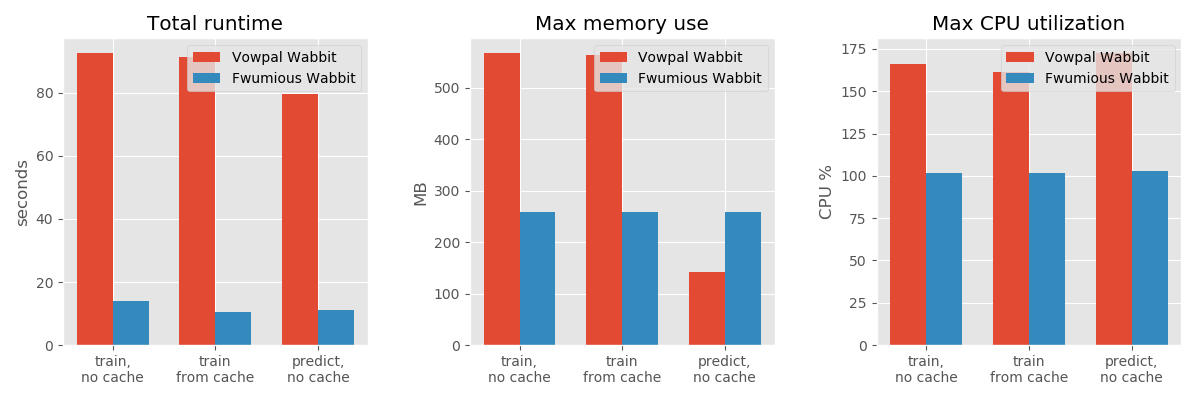
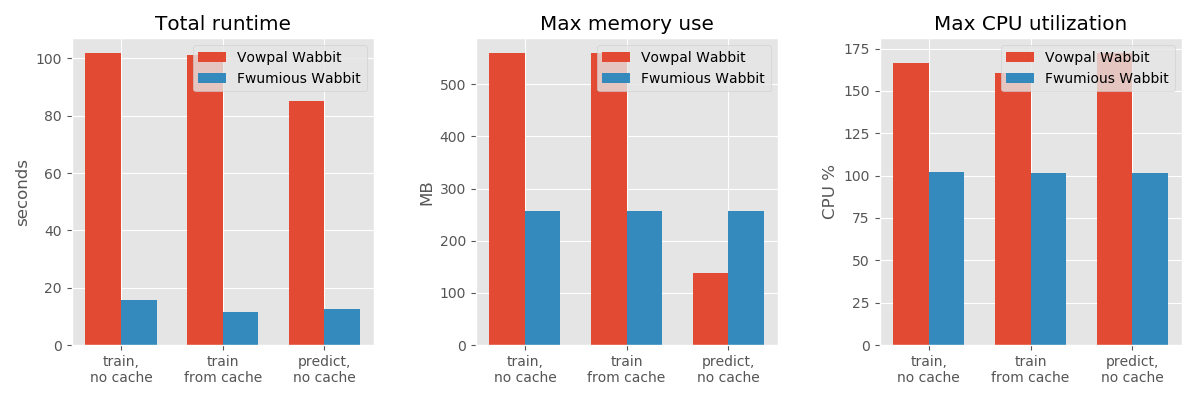
bumping version & benchmark info

diff --git a/src/version.rs b/src/version.rs
@@ -1,1 +1,1 @@
-pub static LATEST: &str = "0.2";
+pub static LATEST: &str = "0.3";

diff --git a/BENCHMARK.md b/BENCHMARK.md
@@ -14,12 +14,12 @@ here are the results for 3 runs for each scenario, taking mean values:
 ![benchmark results](benchmark_results.png)
 Scenario|Runtime (seconds)|Memory (MB)|CPU %
 ----|----:|----:|----:
-vw train, no cache|92.68 | 567 | 166.03
-fw train, no cache|13.85 | 258 | 101.60
-vw train, using cache|91.25 | 563 | 161.30
-fw train, using cache|10.42 | 258 | 101.53
-vw predict, no cache|79.55 | 141 | 172.63
-fw predict, no cache|11.25 | 258 | 102.80
+vw train, no cache|101.89 | 560 | 166.37
+fw train, no cache|15.65 | 257 | 102.27
+vw train, using cache|101.15 | 560 | 160.73
+fw train, using cache|11.41 | 257 | 101.77
+vw predict, no cache|85.09 | 139 | 172.40
+fw predict, no cache|12.68 | 257 | 101.43
 
 ### Model equivalence
 loss values for the test set:
@@ -81,16 +81,16 @@ or, if you just want the numbers with less dependencies run:
 
 ### versions:
 ```
-vowpal wabbit 8.8.1 (git commit: 9a4028bb4)
-fwumious wabbit 0.2 (git commit: 4447d6c)
+vowpal wabbit 8.8.1 (git commit: 696ebad6c)
+fwumious wabbit 0.3 (git commit: 4495cc3)
 ```
 
 ### CPU Info
-'''
-        Intel(R) Xeon(R) CPU E5-2630 v2 @ 2.60GHz'''
+```
+        Intel(R) Xeon(R) CPU E5-2630 v2 @ 2.60GHz```
 
 ### Operating System
 ```
 System: Linux
-Version: #174~14.04.1-Ubuntu SMP Thu May 9 08:17:37 UTC 2019```
+Version: #186-Ubuntu SMP Mon Dec 4 19:09:19 UTC 2017```
 
